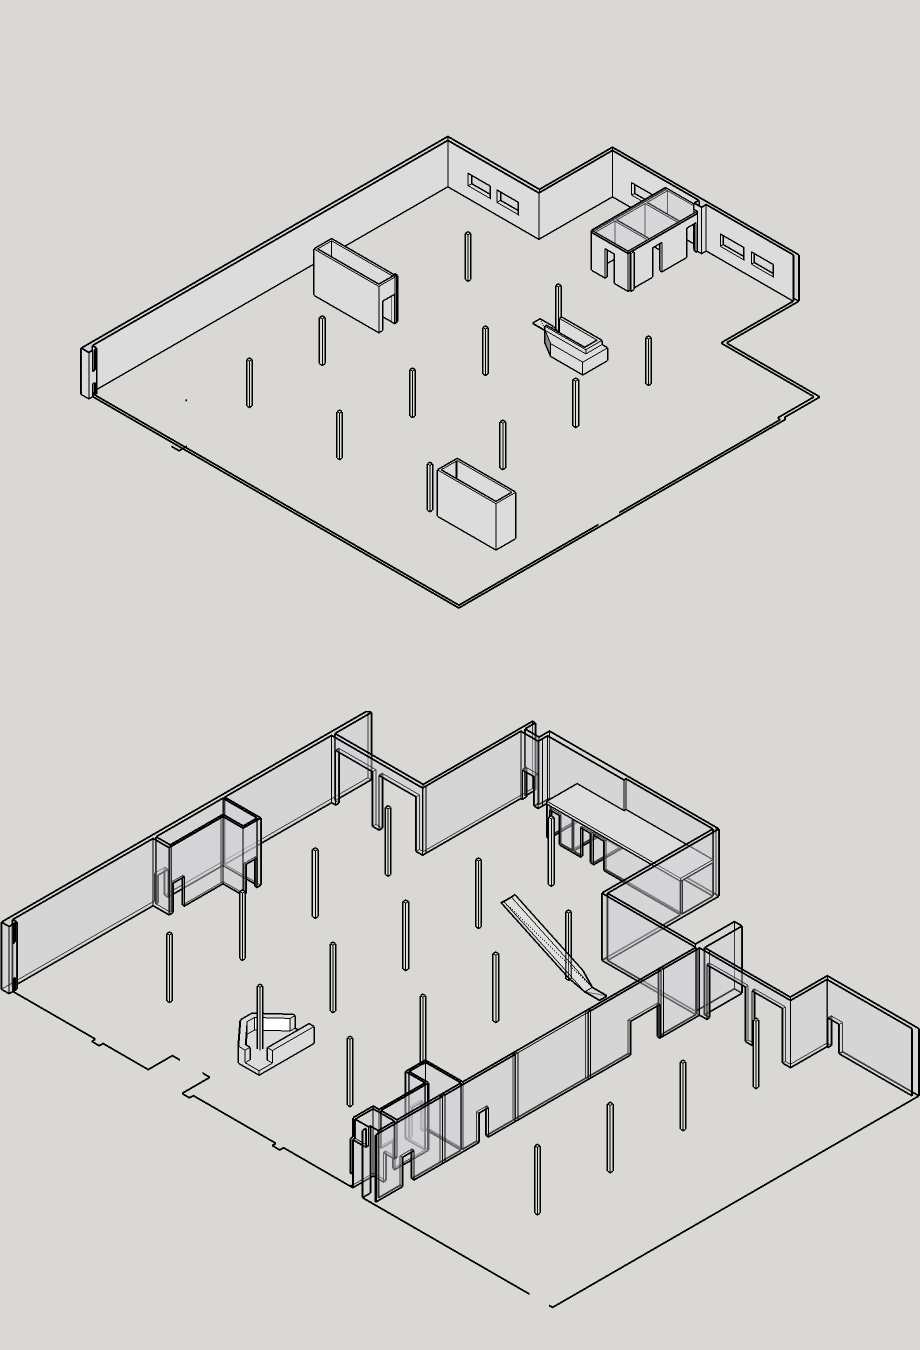
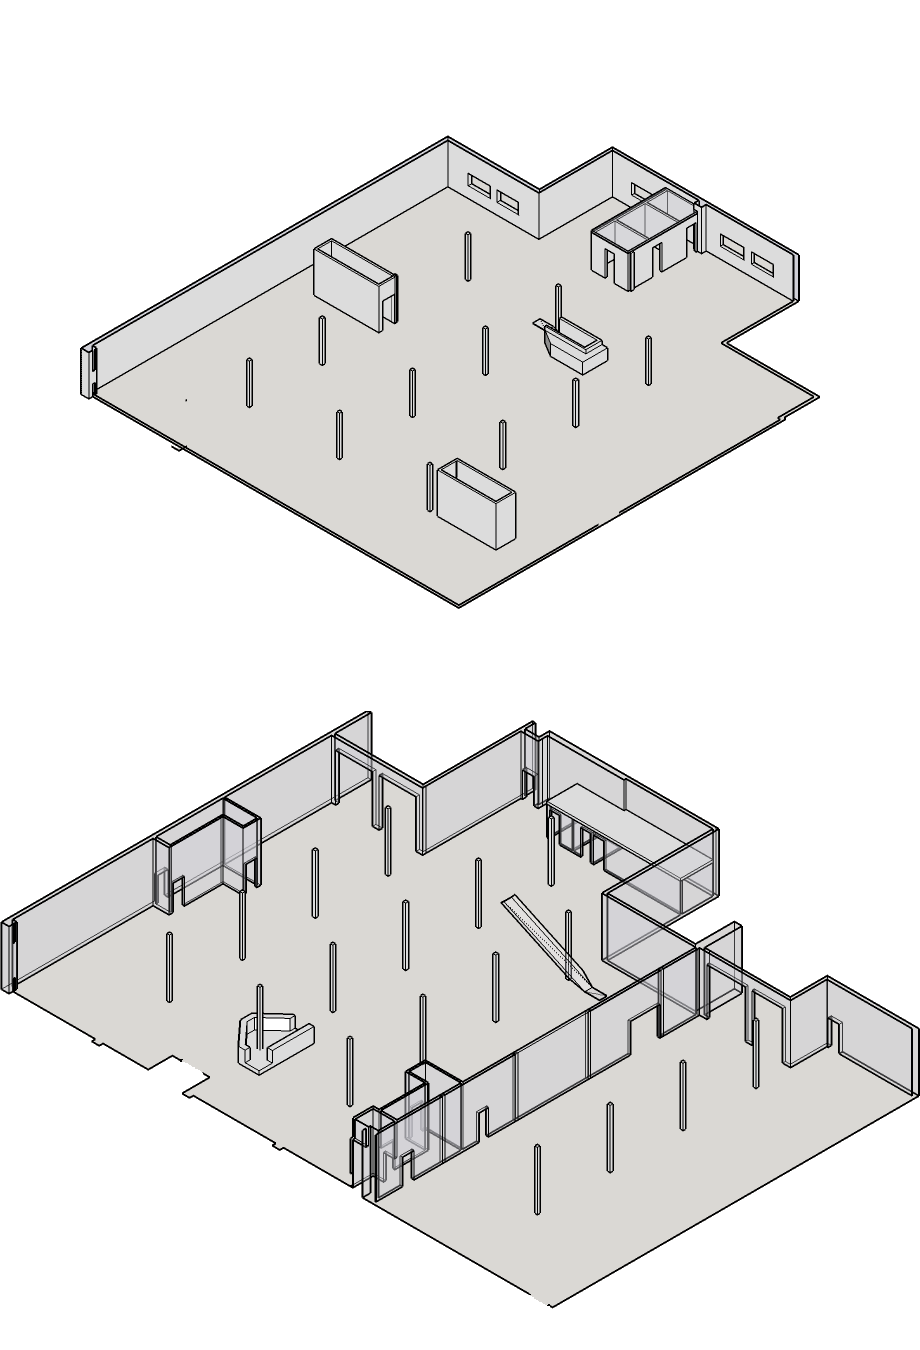
ISOMETRIC MAP WITHOUT MARKERS

diff --git a/static/app/components/d3/map.js b/static/app/components/d3/map.js
@@ -1,11 +1,12 @@
+const mapScale = 5.35;
+
 var mapConstructor = function (containerID, floorNum, studioData) {
-
+  //Current Floor
   this.floorNum = floorNum,
-
+  //Container for the map svgs and images
   this.container = d3.select('#' + containerID).append('svg')
     .attr('id', 'floor' + floorNum)
     .attr('class', 'mapContainer'),
-
   //Returns width of the map container
   this.width = function () {
       return this.container.node().getBoundingClientRect().width;
@@ -14,97 +15,143 @@ var mapConstructor = function (containerID, floorNum, studioData) {
   this.height = function () {
       return this.container.node().getBoundingClientRect().height;
   },
-
+  //The map img
   this.map = addImgMap(this.container,"/assets/ISO.png" ),
-
-  this.studio = new studio(floorNum)
+  //initialize studios svgs
+  this.studio = new studio(this.container, this.map)
 }
 
-var studio = function(floorNum) {
-  //Draws all the studios in studioData
-  this.data = [],
-  
-  this.list = d3.select('svg#floor' + floorNum)
+var studio = function(container, map) {
+  //Building contains all studio information
+  this.building = container
     .append('g')
-    .attr('class','studioF' + floorNum),
+    .attr('id','studioGroup'),
 
+  //The floor is an array of g elements for each floor in the bulding
+  this.floor =[
+    this.building
+      .append('g')
+      .attr('id', 'floor1'),
+    this.building
+      .append('g')
+      .attr('id','floor2')
+  ],
+
+//Params: StudioData object that contains studio location and id
+//May contain multiple
   this.draw = function (studioData) {
-    this.data = this.data.concat(studioData);
-    this.list
+    this.floor[Number(studioData[0].floor)-1]
       .append('g')
       .attr('id', studioData[0].id)
-      .attr('class','studio')
+      .classed('studio',true)
       .selectAll('rect')
       .data(studioData)
       .enter()
       .append('rect')
-      .attr('x y height width', function (d) {
-        return inToPx([d.ry, d.ry, d.height, d.width]);
-      })
+      .attr('x', function (d) { return d.rx + 'px'; })
+      .attr('y', function (d) { return d.ry + 'px'; })
+      .attr('height', function (d) { return d.height + 'px'; })
+      .attr('width', function (d) { return d.width + 'px'; })
   },
 
+
   this.resize = function (width, height) {
-    var scale = getScalingRatio(width, height, floorNum);
-    var scale = scale / 12;
+    var screenScale = getImgFactor(width);
+
+    var translate1 = 'translate('+550*screenScale+','+ 1305*screenScale+') '; //460 and 605 based on point in img map
+    var translate2 = 'translate('+460*screenScale+','+ 605*screenScale+') '; //460 and 605 based on point in img map
+    var scale = 'scale('+mapScale*screenScale+','+mapScale*screenScale*0.58+') ';
+    var rotate = 'rotate(-135, 0, 0) ';
+
+
     //var scale = getIsoScalingRatio(width);
-    if (scale !== 0 && !isNaN(scale)) {
+    // var scale =1;
+    if (!isNaN(screenScale)){
       //Magical numbers, just testing
-      //this.list.attr('transform','translate(266, 345) scale('+scale+','+scale*0.6+') rotate(-135, 0, 0) ')
-      this.list.attr('transform','scale('+scale+')')
+      //THIS WORKS AT 605PX WIDTH OF MAP / 920PX MAX WIDTH
+      this.floor[1].attr('transform', translate2 + scale + rotate)
+        .transition()
+        .delay(750);
+      this.floor[0].attr('transform', translate1 + scale + rotate)
+        .transition()
+        .delay(750);
+
     }
+
   },
+
+  this.selectFloor = function (width, floorNum){
+    switch(floorNum) {
+    case 1:
+      var screenScale = getImgFactor(width);
+      var setFloor = 'translate(0,'+ -650*screenScale+') ';
+      break;
+    case 2:
+        var setFloor = 'translate(0,0) ';
+        break;
+    default:
+      var screenScale = getImgFactor(width);
+      var setFloor = 'translate(0,'+ -650*screenScale+') ';
+      break;
+    }
+
+
+    this.building.attr('transform', setFloor);
+    map.attr('transform', setFloor);
+  }
 
   this.remove = function (objID) {
     d3.select('#' + objID)
       .style('visibility', 'hidden');
   },
 
-  this.set = function (objID, xPos, yPos) {
-    d3.select('#' + objID)
-      .attr('x', xPos)
-      .attr('y', yPos)
-      .style('visibility', null);
-  },
-
   this.highlight = function (objID) {
     d3.select('#' + objID)
-      .attr('fill', 'red')
-      .style('visibility', null);
+      .classed('studioHighlight',true)
+
   },
 
   this.dehighlight = function (objID) {
     d3.select('#' + objID)
-      .attr('fill', null)
+      .classed('studioHighlight',false)
   }
 }
 
-
-
+//Add map image
 var addImgMap = function (container, filePath) {
-  container.append("svg:image")
+  return container.append("svg:image")
     .attr("xlink:href",filePath)
-    .attr('width',"100vh")
-    .attr('height','100vw')
+    .attr('width',"100%")
+    .attr('height','200%')
     .attr('preserveAspectRatio', 'xMinYMin meet')
-    .attr('class','isoFloor1')
+    .attr('class','map')
 
 };
 
+var getImgFactor = function (currentWidth){
+  const isoMapWidth = 920;//920 px original map width
+  return currentWidth/isoMapWidth;
+}
+
+//Only useful with the 2d maps
 var getScalingRatio = function (width, height, floorNum) {
-  if (floorNum === 2) {
-    var aspect = 0.85035;//W=925.374,H=1088.246 px
+  var mapWidth2 = 925.374;
+  var mapWidth1 = 1364.490;
+  var mapHeight = 1088.246;
+  if (floorNum == 2) {
+    var aspect = mapWidth2/mapHeight;//W=925.374,H=1088.246 px
   } else {
-    var aspect = 1.25385;//W=1364.490,H=1088.2464 px
+    var aspect = mapWidth1/mapHeight;//W=1364.490,H=1088.2464 px
   }
 
   if (width / height >= aspect) {
-    return height / 1088.246;
+    return height / mapHeight;
   }
   else if (width / height < aspect) {
-    if (floorNum === 2) {
-      return width / 925.374;
+    if (floorNum == 2) {
+      return width / mapWidth2;
     } else {
-      return width / 1364.490;
+      return width / mapWidth1;
     }
   }
 }

diff --git a/static/views/index.html b/static/views/index.html
@@ -1,6 +1,6 @@
 <!DOCTYPE html>
 <html>
-<meta http-equiv="refresh" content="600; URL=https://whispering-coast-62157.herokuapp.com/?self=frontdesk">
+<!-- <meta http-equiv="refresh" content="600; URL=https://whispering-coast-62157.herokuapp.com/?self=frontdesk"> -->
 <!--
     Made by: Andrew Song, Sunny Leung
 -->
@@ -44,8 +44,8 @@
                                 <div class="lvl1-box-shadow" id="searchSection">
                                     <div ng-repeat="object in data track by $index">
                                         <!-- </div index-search-res></div> -->
-                                        <div class="entryPO" ng-click="showEntryDetails(object);switchMapsOnClick(object[5]);showLoc(object[20]);highlightItem('search_' + object[20])"
-                                            id="search_{{ object[20] }}">
+                                        <div class="entryPO" ng-click="showEntryDetails(object);switchMapsOnClick(object[6]);showLoc(object[21]);highlightItem('search_' + object[21])"
+                                            id="search_{{ object[21] }}">
                                             {{ queryTerm.length
                                             < 2 ? '' : object[0].toLowerCase().indexOf(queryTerm.toLowerCase()) !=- 1 || object[1].toLowerCase().indexOf(queryTerm.toLowerCase())
                                                 !=- 1 || object[2].toLowerCase().indexOf(queryTerm.toLowerCase()) !=- 1 || object[15].toLowerCase().indexOf(queryTerm.toLowerCase())
@@ -64,8 +64,8 @@
                                     <div class="panel-body" id="ct-index-panel-body">
                                         <!-- sheet data -->
                                         <div ng-repeat="object in data">
-                                            <div class="entryPO" ng-click="showEntryDetails(object);switchMapsOnClick(object[5]);showLoc(object[20]);highlightItem('studio_' + object[20])"
-                                                id="studio_{{ object[20] }}">
+                                            <div class="entryPO" ng-click="showEntryDetails(object);switchMapsOnClick(object[6]);showLoc(object[21]);highlightItem('studio_' + object[21])"
+                                                id="studio_{{ object[21] }}">
                                                 {{ object[1] === "Studio" ? object[0] : '' }}
                                             </div>
                                         </div>
@@ -81,8 +81,8 @@
                                 <div id="collapse2" class="panel-collapse collapse">
                                     <div class="panel-body" id="ct-index-panel-body">
                                         <div ng-repeat="object in data">
-                                            <div ng-click="showEntryDetails(object);showLoc(object[20]);switchMapsOnClick(object[5]);highlightItem('tool_' + object[20])"
-                                                class="entryPO" id="tool_{{ object[20] }}">
+                                            <div ng-click="showEntryDetails(object);showLoc(object[21]);switchMapsOnClick(object[6]);highlightItem('tool_' + object[21])"
+                                                class="entryPO" id="tool_{{ object[21] }}">
                                                 {{ object[1] === "Tool" ? object[0] : '' }}
                                             </div>
                                         </div>
@@ -98,8 +98,8 @@
                                 <div id="collapse3" class="panel-collapse collapse">
                                     <div class="panel-body" id="ct-index-panel-body">
                                         <div ng-repeat="object in data">
-                                            <div ng-click="showEntryDetails(object);showLoc(object[20]);switchMapsOnClick(object[5]);highlightItem('cons_' + object[20])"
-                                                class="entryPO" id="cons_{{ object[20] }}">
+                                            <div ng-click="showEntryDetails(object);showLoc(object[21]);switchMapsOnClick(object[6]);highlightItem('cons_' + object[21])"
+                                                class="entryPO" id="cons_{{ object[21] }}">
                                                 {{ object[1] === "Consumable" ? object[0] : '' }}
                                             </div>
                                         </div>
@@ -115,8 +115,8 @@
                                 <div id="collapse4" class="panel-collapse collapse">
                                     <div class="panel-body" id="ct-index-panel-body">
                                         <div ng-repeat="object in data">
-                                            <div ng-click="showEntryDetails(object);showLoc(object[20]);switchMapsOnClick(object[5]);highlightItem('material_' + object[20])"
-                                                class="entryPO" id="material_{{ object[20] }}">
+                                            <div ng-click="showEntryDetails(object);showLoc(object[21]);switchMapsOnClick(object[6]);highlightItem('material_' + object[21])"
+                                                class="entryPO" id="material_{{ object[21] }}">
                                                 {{ object[1] === "Material" ? object[0] : '' }}
                                             </div>
                                         </div>

diff --git a/static/app/components/index/index.js b/static/app/components/index/index.js
@@ -113,13 +113,16 @@ angular.module("myApp", ['d3mapping'])
             var objectFound = $scope.data[elementPos];
             $scope.lastItem = objectFound;
 
-            if (objectFound === null) { return 'Not Found' }
             if (objectFound[$scope.index.type] === 'Studio') {
                 if (objectFound[$scope.index.floor] === '1') {
+
                     $scope.map1.studio.highlight(objectFound[$scope.index.id]);
+                    $scope.map1.studio.selectFloor($scope.map1.width(),1);
                 }
                 else if (objectFound[$scope.index.floor] === '2') {
-                    $scope.map2.studio.highlight(objectFound[$scope.index.id]);
+
+                    $scope.map1.studio.highlight(objectFound[$scope.index.id]);
+                    $scope.map1.studio.selectFloor($scope.map1.width(),2);
                 }
             }
             else {
@@ -133,8 +136,8 @@ angular.module("myApp", ['d3mapping'])
         }
 
         var removeLast = function (lastItem) {
-            $scope.map1.marker.remove();
-            $scope.map2.marker.remove();
+            // $scope.map1.marker.remove();
+            // $scope.map2.marker.remove();
             if (lastItem !== null) {
                 if (lastItem[$scope.index.floor] === '1') {
                     $scope.map1.studio.dehighlight(lastItem[$scope.index.id]);

diff --git a/static/app/components/d3/d3map.js b/static/app/components/d3/d3map.js
@@ -28,11 +28,12 @@ app.controller('mapController', ['$scope', '$window', '$location', function ($sc
         'id': $scope.data[i][$scope.index.id],
       }
 
-      if ($scope.data[i][$scope.index.floor] === '2' && $scope.data[i][$scope.index.type] === 'Studio') {
+      if ($scope.data[i][$scope.index.type] === 'Studio') {
         $scope.map2.studio.draw([obj])
+        $scope.map1.studio.draw([obj])
       }
       else if ($scope.data[i][$scope.index.floor] === '1' && $scope.data[i][$scope.index.type] === 'Studio') {
-        $scope.map1.studio.draw([obj])
+
       }
 
       if ( getQueryVariable( "self" ) === 'frontdesk'  && $scope.data[i][$scope.index.name] === 'Front Desk'){

diff --git a/static/app/components/d3/d3demo.js b/static/app/components/d3/d3demo.js
@@ -52,8 +52,8 @@ var mapConstructor = function (containerID, floorNum, studioData) {
         //var scale = getIsoScalingRatio(width);
         if (scale !== 0 && !isNaN(scale)) {
           //Magical numbers, just testing
-          //this.list.attr('transform','translate(266, 345) scale('+scale+','+scale*0.6+') rotate(-135, 0, 0) ')
-          this.list.attr('transform','scale('+scale+')')
+          this.list.attr('transform','translate(266, 345) scale('+scale+','+scale*0.6+') rotate(-135, 0, 0) ')
+          //this.list.attr('transform','scale('+scale+')')
         }
       },
 

diff --git a/static/app/components/index/input/input.js b/static/app/components/index/input/input.js
@@ -1,5 +1,5 @@
 angular.module("myApp").controller("inputCtrl", ["$scope", "$http", "mapService", "highlightService", "advInputs", function ($scope, $http, mapService, highlightService, advInputs) {
-    // authorized data retrieval 
+    // authorized data retrieval
     $http.get('/getData')
         .success(function (data, status, header, config) {
             $scope.data = data;

diff --git a/static/style/index.css b/static/style/index.css
@@ -167,17 +167,15 @@ a {
 
 .studio{
   opacity: 0.5;
-  transform-origin: 50% 50% 0px;
 }
-.studioISO{
-  opacity: 0.5;
-}
-.studioGroup{
-  transform-origin: 50% 50% 0px;
-  transform: scale(1,0.6) rotate(135deg);
+.studioHighlight{
+  fill: red;
 }
 
-.isoMap{
+.studioGroup{
+}
+
+.map{
   width: 100%;
 }
 
